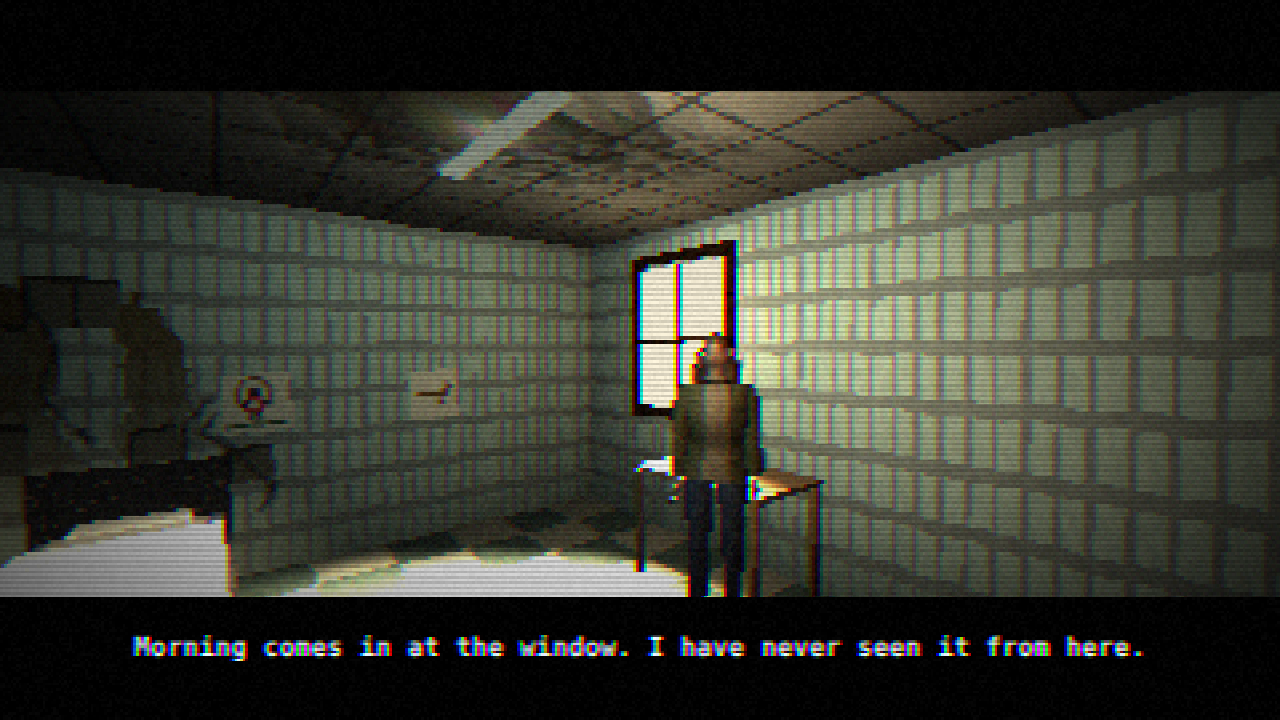
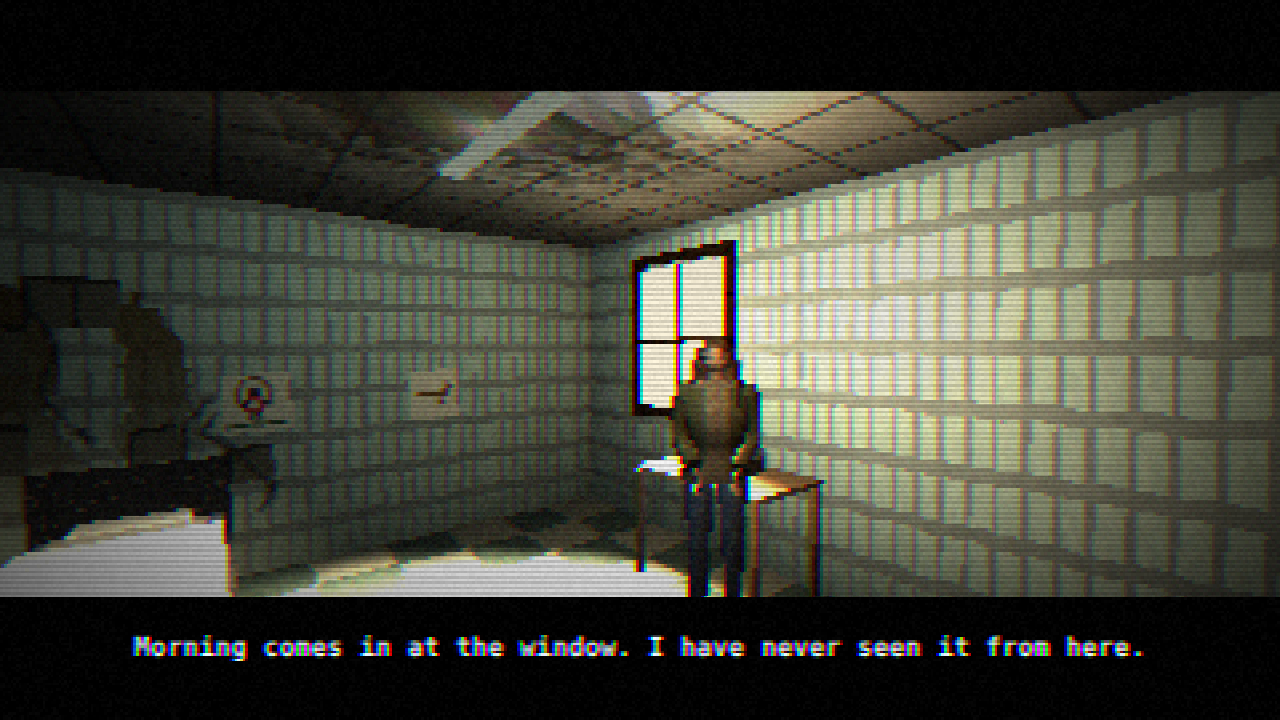
0.2.108: Nora on her feet, second pass
The owner asked for Nora's standing figure to be redone. She no longer
stands to attention: rounded, sloping shoulders over the jacket, a slight
stoop from the hips, her head a little down, elbows in at her sides and
her hands held in front of her. Her jumper now goes up round her neck
(its flat top showed as a black bar from above), and her colours are
darker in the flashlight: the jacket stays olive, her face, hair and
hands are no longer burnt white. Stills nora_follow and ending_morning
re-shot. The owner's pick for the theatre cabinet (open it by ear, from
the gap in Edith's tune) is in docs/DESIGN_0.5.md.

Claude-Session: https://claude.ai/code/session_01Kt2ajWcwzg7QhP3mDk3ZUu

Changed region(s): [[0.4375, 0.1222, 1.0, 0.7944]]

diff --git a/src/props/noraStanding.js b/src/props/noraStanding.js
@@ -2,10 +2,14 @@
 // game until the owner approves it): freed from the table, she follows you
 // out. The same woman as on the table (nora.js: her waxed jacket, knitted
 // jumper, jeans and boots; noraHead.js, noraHair.js), stood up: her body is
-// built as it lies on the table and turned upright, her arms hang at her
-// sides with her hands loose, her hair hangs to her shoulders. Her legs and
-// arms swing from her hips and shoulders (userData.limbs) so she can walk;
-// `stride` (-1..1) poses one step, `turn` turns her head.
+// built as it lies on the table and turned upright, her hair hangs to her
+// shoulders. Owner 2026-11-19, first pass: redo her. Not a mannequin
+// standing to attention: her shoulders slope and are rounded, she stoops a
+// little at the waist, afraid, her head a little down, her elbows in at her
+// sides and her hands held in front of her, and her colours darker so your
+// flashlight does not burn her jacket yellow. Her legs and arms swing from
+// her hips and shoulders (userData.limbs) so she can walk; `stride` (-1..1)
+// poses one step, `turn` turns her head, `hunch` (radians) stoops her.
 // Origin on the floor between her feet; she faces +z.
 import * as THREE from 'three';
 import { materialFor } from './parts.js';
@@ -15,10 +19,16 @@ import { hairHanging } from './noraHair.js';
 import { noraTextures, torso, mesh } from './nora.js';
 
 const v = (...p) => new THREE.Vector3(...p);
-const HIPS = 0.86; // metres from the floor to her hips: 1.67 m to the top of her head
+const HIPS = 0.86; // metres from the floor to her hips: about 1.65 m to the top of her head
 const LEG_SWING = 0.35; // radians at a full stride
-const ARM_SWING = 0.22;
-const SHADE = 0.62; // on her feet she is in your flashlight, not under his lamp: her colours darker so they hold
+const ARM_SWING = 0.12; // her arms held in: they hardly swing
+// In your flashlight, not under his lamp: her colours darker so they hold
+// (her waxed jacket most, or it burns yellow; her face and hair, or they
+// burn white in the middle of your beam; her pale jumper next).
+const SHADE = 0.58;
+const FACE_SHADE = 0.4;
+const SHADE_OF = (tex) => new Map([[tex.jacket, 0.4], [tex.jumper, 0.36]]);
+const BEND = 1.0; // radians her forearms come up from hanging: her hands in front of her
 
 // Built as on the table (her front +y, her head -z, her feet +z), then stood
 // up by the group that holds it. A limb swings from `pivot` about the body's x.
@@ -37,44 +47,69 @@ function leg(tex, side) {
   return limb(v(x, 0.09, -0.01), jeans, boot);
 }
 
-// An arm hanging from the shoulder in its sleeve, the hand loose.
+// An arm from the shoulder in its sleeve, the elbow in at her side, the
+// forearm come up and in so her hand is held in front of her stomach.
 function arm(tex, side) {
-  const shoulder = v(side * 0.17, 0.1, -0.5);
-  const elbow = v(side * 0.2, 0.1, -0.25).sub(shoulder);
-  const wrist = v(side * 0.205, 0.105, -0.02).sub(shoulder);
-  const sleeve = mesh(sweepGeometry([v(0, 0, 0), elbow, wrist], [0.058, 0.05, 0.044], { radial: 10, steps: 4, front: [0, 1, 0] }), tex.jacket);
-  const hand = handGroup(materialFor(tex.hands), { thumb: -side, curl: 0.55, spread: 0.04, length: 0.85, width: 0.85 });
-  hand.position.copy(wrist).add(v(0, 0, 0.01));
-  hand.quaternion.setFromUnitVectors(v(0, 0, 1), wrist.clone().sub(elbow).normalize());
-  hand.rotateZ(side * Math.PI / 2); // the palm to her thigh
+  const shoulder = v(side * 0.165, 0.1, -0.49);
+  const elbow = v(side * 0.035, -0.01, 0.245);
+  const across = v(-side * 0.35, Math.sin(BEND) * 0.9, Math.cos(BEND)).normalize();
+  const wrist = elbow.clone().addScaledVector(across, 0.22);
+  const sleeve = mesh(sweepGeometry([v(0, 0, 0), elbow, wrist], [0.06, 0.052, 0.045], { radial: 10, steps: 5, front: [0, 1, 0] }), tex.jacket);
+  const hand = handGroup(materialFor(tex.hands), { thumb: -side, curl: 0.7, spread: 0.03, length: 0.85, width: 0.85 });
+  hand.position.copy(wrist).addScaledVector(across, 0.01);
+  hand.quaternion.setFromUnitVectors(v(0, 0, 1), across);
+  hand.rotateZ(side * Math.PI / 2); // the palm in, towards the other hand
   return limb(shoulder, sleeve, hand);
 }
 
-// Her neck straight up into her head, the jumper's collar round it.
-function neck(tex) {
-  const path = [v(0, 0.1, -0.52), v(0, 0.104, -0.585), v(0, 0.108, -0.64)];
-  const throat = mesh(sweepGeometry(path, [[0.05, 0.045], 0.044, 0.042], { radial: 16, steps: 4, front: [0, 1, 0] }), tex.neck);
-  const collar = mesh(new THREE.TorusGeometry(0.054, 0.017, 6, 18), tex.jumper);
-  collar.position.copy(path[0].clone().lerp(path[1], 0.5));
-  return [throat, collar];
+// Her shoulders: the jacket rounded over the top of her body and over each
+// shoulder, so her body does not end square at the neck.
+function shoulders(tex) {
+  const yoke = mesh(new THREE.SphereGeometry(1, 16, 8), tex.jacket);
+  yoke.scale.set(0.19, 0.085, 0.075);
+  yoke.position.set(0, 0.085, -0.47); // tucked in behind her jumper's front, so it rounds only her top and back
+  const caps = [-1, 1].map((side) => {
+    const cap = mesh(new THREE.SphereGeometry(0.066, 10, 8), tex.jacket);
+    cap.position.set(side * 0.162, 0.1, -0.485);
+    return cap;
+  });
+  return [yoke, ...caps];
 }
 
-function noraStanding(t, { stride = 0, turn = 0 } = {}) {
+// Her neck straight up out of her jumper into her head. (The table's ring
+// collar is left off: stood up, it showed edge-on as a black bar.)
+function neck(tex) {
+  const path = [v(0, 0.1, -0.52), v(0, 0.104, -0.585), v(0, 0.108, -0.64)];
+  return [mesh(sweepGeometry(path, [[0.05, 0.045], 0.044, 0.042], { radial: 16, steps: 4, front: [0, 1, 0] }), tex.neck)];
+}
+
+function noraStanding(t, { stride = 0, turn = 0, hunch = 0.14, nod = 0.08 } = {}) {
   const tex = noraTextures();
   const legs = [leg(tex, -1), leg(tex, 1)];
   const arms = [arm(tex, -1), arm(tex, 1)];
   const head = noraHead();
   head.position.set(0, 0.11, -0.7);
-  const flat = new THREE.Quaternion().setFromAxisAngle(v(1, 0, 0), -Math.PI / 2);
-  head.quaternion.setFromAxisAngle(v(0, 0, 1), turn).multiply(flat);
-  const body = new THREE.Group().add(...torso(tex, { standing: true }), ...neck(tex), ...legs, ...arms, head, ...hairHanging(head, v(0, 0, 1)));
+  const down = new THREE.Quaternion().setFromAxisAngle(v(1, 0, 0), -Math.PI / 2 + nod); // her chin a little down
+  head.quaternion.setFromAxisAngle(v(0, 0, 1), turn).multiply(down);
+  // All of her above the hips stoops forward from them; her hair still hangs straight down.
+  const hair = hairHanging(head, v(0, Math.sin(hunch), Math.cos(hunch)));
+  const upper = new THREE.Group().add(...torso(tex, { standing: true }), ...shoulders(tex), ...neck(tex), ...arms, head, ...hair);
+  upper.position.set(0, 0.1, 0);
+  upper.children.forEach((child) => child.position.y -= 0.1); // pivot at her hips
+  upper.rotation.x = hunch;
+  const body = new THREE.Group().add(upper, ...legs);
   body.rotation.x = Math.PI / 2; // stood up: her head up, her front to +z
   body.position.set(0, HIPS, -0.1);
   const nora = new THREE.Group().add(body);
+  const shades = SHADE_OF(tex);
+  const face = new Set(hair); // and her skin: her head, her throat, her hands
+  head.traverse((o) => o.isMesh && face.add(o));
+  nora.traverse((o) => o.isMesh && (o.material.map === tex.neck || o.material.map === tex.hands) && face.add(o));
   nora.traverse((o) => {
     if (!o.isMesh) return;
+    const shade = face.has(o) ? FACE_SHADE : shades.get(o.material.map) ?? SHADE;
     o.material = o.material.clone();
-    o.material.color.multiplyScalar(SHADE);
+    o.material.color.multiplyScalar(shade);
   });
   nora.userData.limbs = { legs, arms };
   pose(nora, stride);

diff --git a/src/props/nora.js b/src/props/nora.js
@@ -76,13 +76,15 @@ const BODY = [[0.172, 0.1], [0.138, 0.088], [0.152, 0.108], [0.166, 0.104], [0.1
 // On her feet (noraStanding.js) the jacket hangs; on the table its sides fall to the table.
 export function torso(tex, { standing = false } = {}) {
   const rucked = (theta, u) => 1 + 0.025 * Math.sin(theta * 8 + u * 9) + 0.015 * Math.sin(theta * 13 - u * 17); // the wool pulled about
-  const jumper = mesh(sweepGeometry(SPINE, BODY, { radial: 20, steps: 4, front: [0, 1, 0], shape: rucked }), tex.jumper);
+  // Standing, the jumper goes on up and in round her neck, its shoulders sloping (ended flat, it showed as a dark bar).
+  const [spine, body] = standing ? [[...SPINE, [0, 0.106, -0.565]], [...BODY, [0.07, 0.052]]] : [SPINE, BODY];
+  const jumper = mesh(sweepGeometry(spine, body, { radial: 20, steps: 4, front: [0, 1, 0], shape: rucked }), tex.jumper);
   const open = standing ? [0.9, 0.85, 0.8, 0.75, 0.7] : [1.5, 1.3, 1.1, 0.95, 0.8]; // the jacket open over her front
   const fallen = standing ? 0 : 0.18;
   const sides = (theta, u) => (1 + fallen * Math.max(0, -Math.sin(theta)) ** 2) * (1 + 0.035 * Math.sin(theta * 6 + u * 7));
   const jacket = mesh(sweepGeometry(SPINE, BODY.map(([x, y]) => [x * 1.1, y * 1.12]), { radial: 22, steps: 4, front: [0, 1, 0], gap: open, shape: sides }), tex.jacket, { side: THREE.DoubleSide });
   const collar = mesh(sweepGeometry([[-0.1, 0.13, -0.52], [0, 0.07, -0.56], [0.1, 0.13, -0.52]], [0.02, 0.022, 0.02], { radial: 6, steps: 3 }), tex.leather, { color: '#8a6a50' });
-  return [jumper, jacket, collar];
+  return standing ? [jumper, jacket] : [jumper, jacket, collar]; // standing, her shoulders cover the collar (noraStanding.js)
 }
 
 // Her arms down her sides in the jacket's sleeves, fists clenched in the cuffs.

diff --git a/src/mockups/finaleStills.js b/src/mockups/finaleStills.js
@@ -132,7 +132,7 @@ export const FINALE_STILLS = {
     level: basement,
     setup({ world }) {
       put(world, 'noraStanding', at(world, 10.7, 7.95), { turn: 90, options: { stride: 0.35, turn: 0.15 } });
-      look(world, at(world, 11.92, 8.0), at(world, 10.7, 7.95), 1.6, 1.24);
+      look(world, at(world, 11.78, 8.0), at(world, 10.7, 7.95), 1.6, 1.3);
     },
     ui(ctx) {
       subtitle(ctx, '(Nora, whispering) Is he close?');
@@ -221,7 +221,7 @@ export const FINALE_STILLS = {
       sun.target.position.set(2.0, 0, 3.6);
       world.scene.add(sun, sun.target);
       light(world, '#ffd8a0', 2.5, 4, [4.4, 2.6], 1.7);
-      light(world, '#ffe0b8', 5, 3, [3.3, 4.3], 1.7); // the morning back off the walls, on her face
+      light(world, '#ffe0b8', 9, 3, [3.3, 4.3], 1.7); // the morning back off the walls, on her face
       put(world, 'noraStanding', [4.15, 3.55], { turn: -48, options: { turn: 0.1 } });
       look(world, [2.0, 5.5], [4.3, 2.7], 1.6, 1.5);
     },

diff --git a/CHANGELOG.md b/CHANGELOG.md
@@ -2,6 +2,7 @@
 
 Newest first. One line per change.
 
+- 0.2.108 — Nora on her feet, second pass (proposal still, not in the game yet): rounded, sloping shoulders, a slight stoop, elbows in and hands held in front of her, her jumper up round her neck, and darker colours so your flashlight no longer burns her jacket yellow and her face white. The cabinet's lock will be opened by ear, from the gap in Edith's tune (owner's pick).
 - 0.2.107 — Part C proposal stills (not in the game yet): the theatre's door, locked, its glass showing the lamp over the table; Nora on her feet behind you (a standing figure of her); the cabinet's lock; the stairs up with Dr. Venn at their foot; the three endings' key moments with their lines; an end card with "Endings found"; your room's last change. The owner's four picks for part C are in the design notes.
 - 0.2.106 — The morgue: pull out a drawer (its door swings open, its tray slides out, it screeches, and Dr. Venn hears it 8 m off) and it says what is in it: nothing, a child's name tag, Sam's wet tag, or, in Tommy's (2 FEB), page four of your file. The 12 MAY drawer won't come for you; once you've pulled another, the morgue goes quiet and it rolls out on its own, Sister M. under a sheet. Dr. Venn's theatre notes lie on a side table. A bot now plays through the whole basement without ever being heard or caught.
 - 0.2.105 — Sam in the boiler room: meet him in the flood and he knocks twice; after that he knocks where Dr. Venn is, twice close, once far off. The stoker's log gives the valves' order (red shut, blue open, brass open); out of order the water bubbles back, in order the flood drains and the boiler roars back to life. His tin soldier lies where the water was: give it to him and three times you can tap a pipe so he knocks far from you and Dr. Venn goes to listen there.

diff --git a/docs/DESIGN_0.5.md b/docs/DESIGN_0.5.md
@@ -437,3 +437,13 @@ coal store's door shutting on the corridor's light, at a child's height), `end_c
 ending's name, "Endings found: 1 of 4", a tape's STOP in the corner), and `room_last` (your room's
 last change: the bed made, your wooden horse on the pillow).
 
+## Owner's notes on the part C stills (2026-11-19) and the second pass of Nora on her feet
+- **The cabinet: hear the gap.** Opening its lock, Edith's music box plays her tune from your pocket
+  and stops at the gap; each brass key plays its note in the gap; the one that fits (the note her
+  box lost) opens it; a wrong one, "(the lock does not give)". No new text.
+- **Nora on her feet: redo.** Second pass (`nora_follow`, `ending_morning`): no longer a mannequin
+  standing to attention: her shoulders slope and are rounded, she stoops a little from the hips,
+  afraid, her elbows in and her hands held in front of her, her head a little down; her jumper goes up
+  round her neck (its flat top showed as a black bar); her colours darker in your flashlight, her
+  jacket olive as under his lamp and her face, hair and hands no longer burnt white.
+
